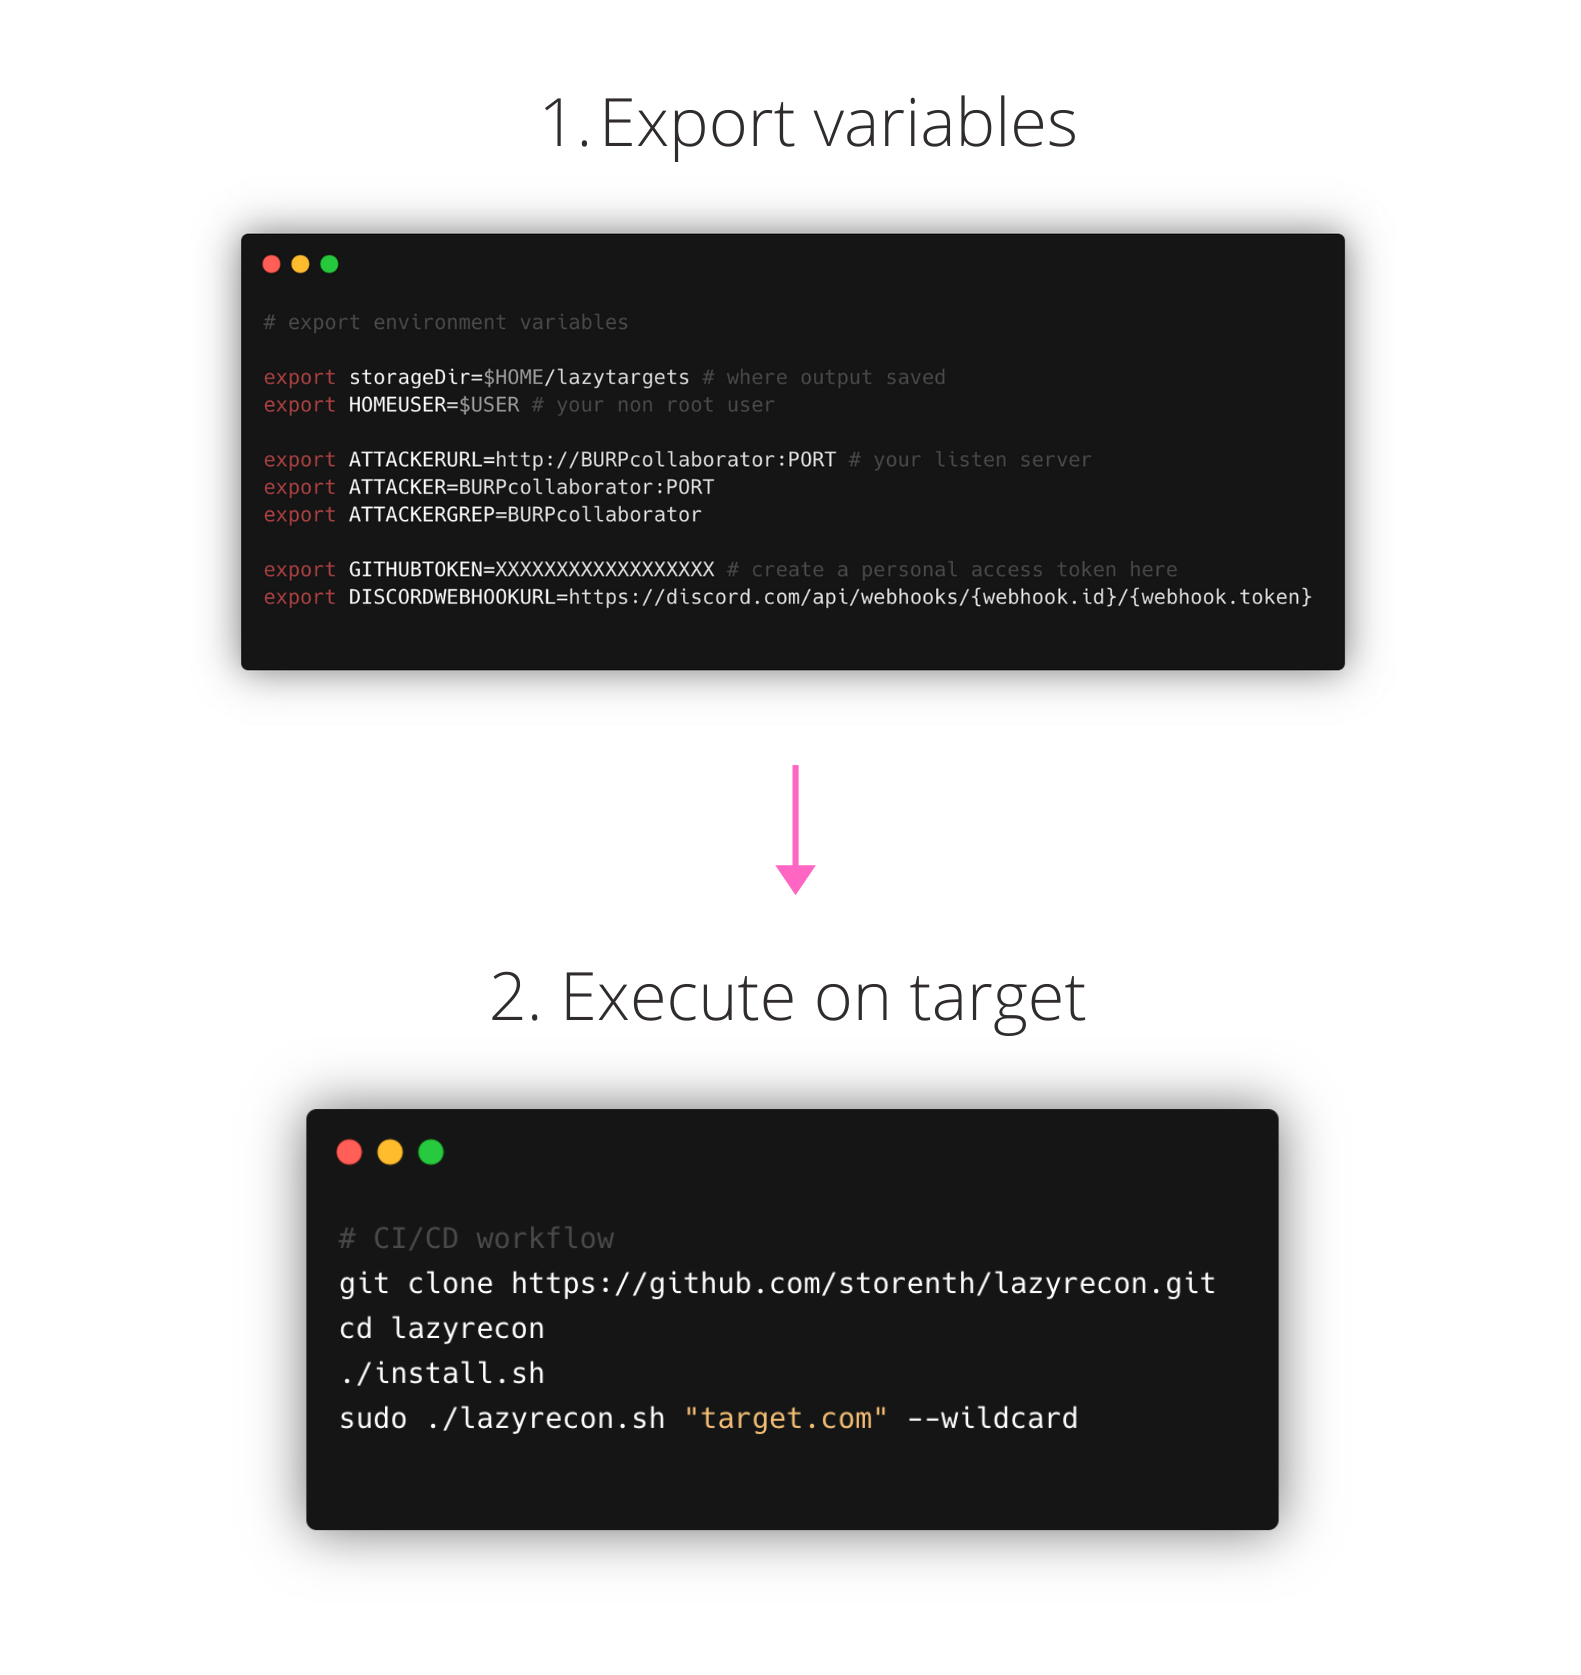
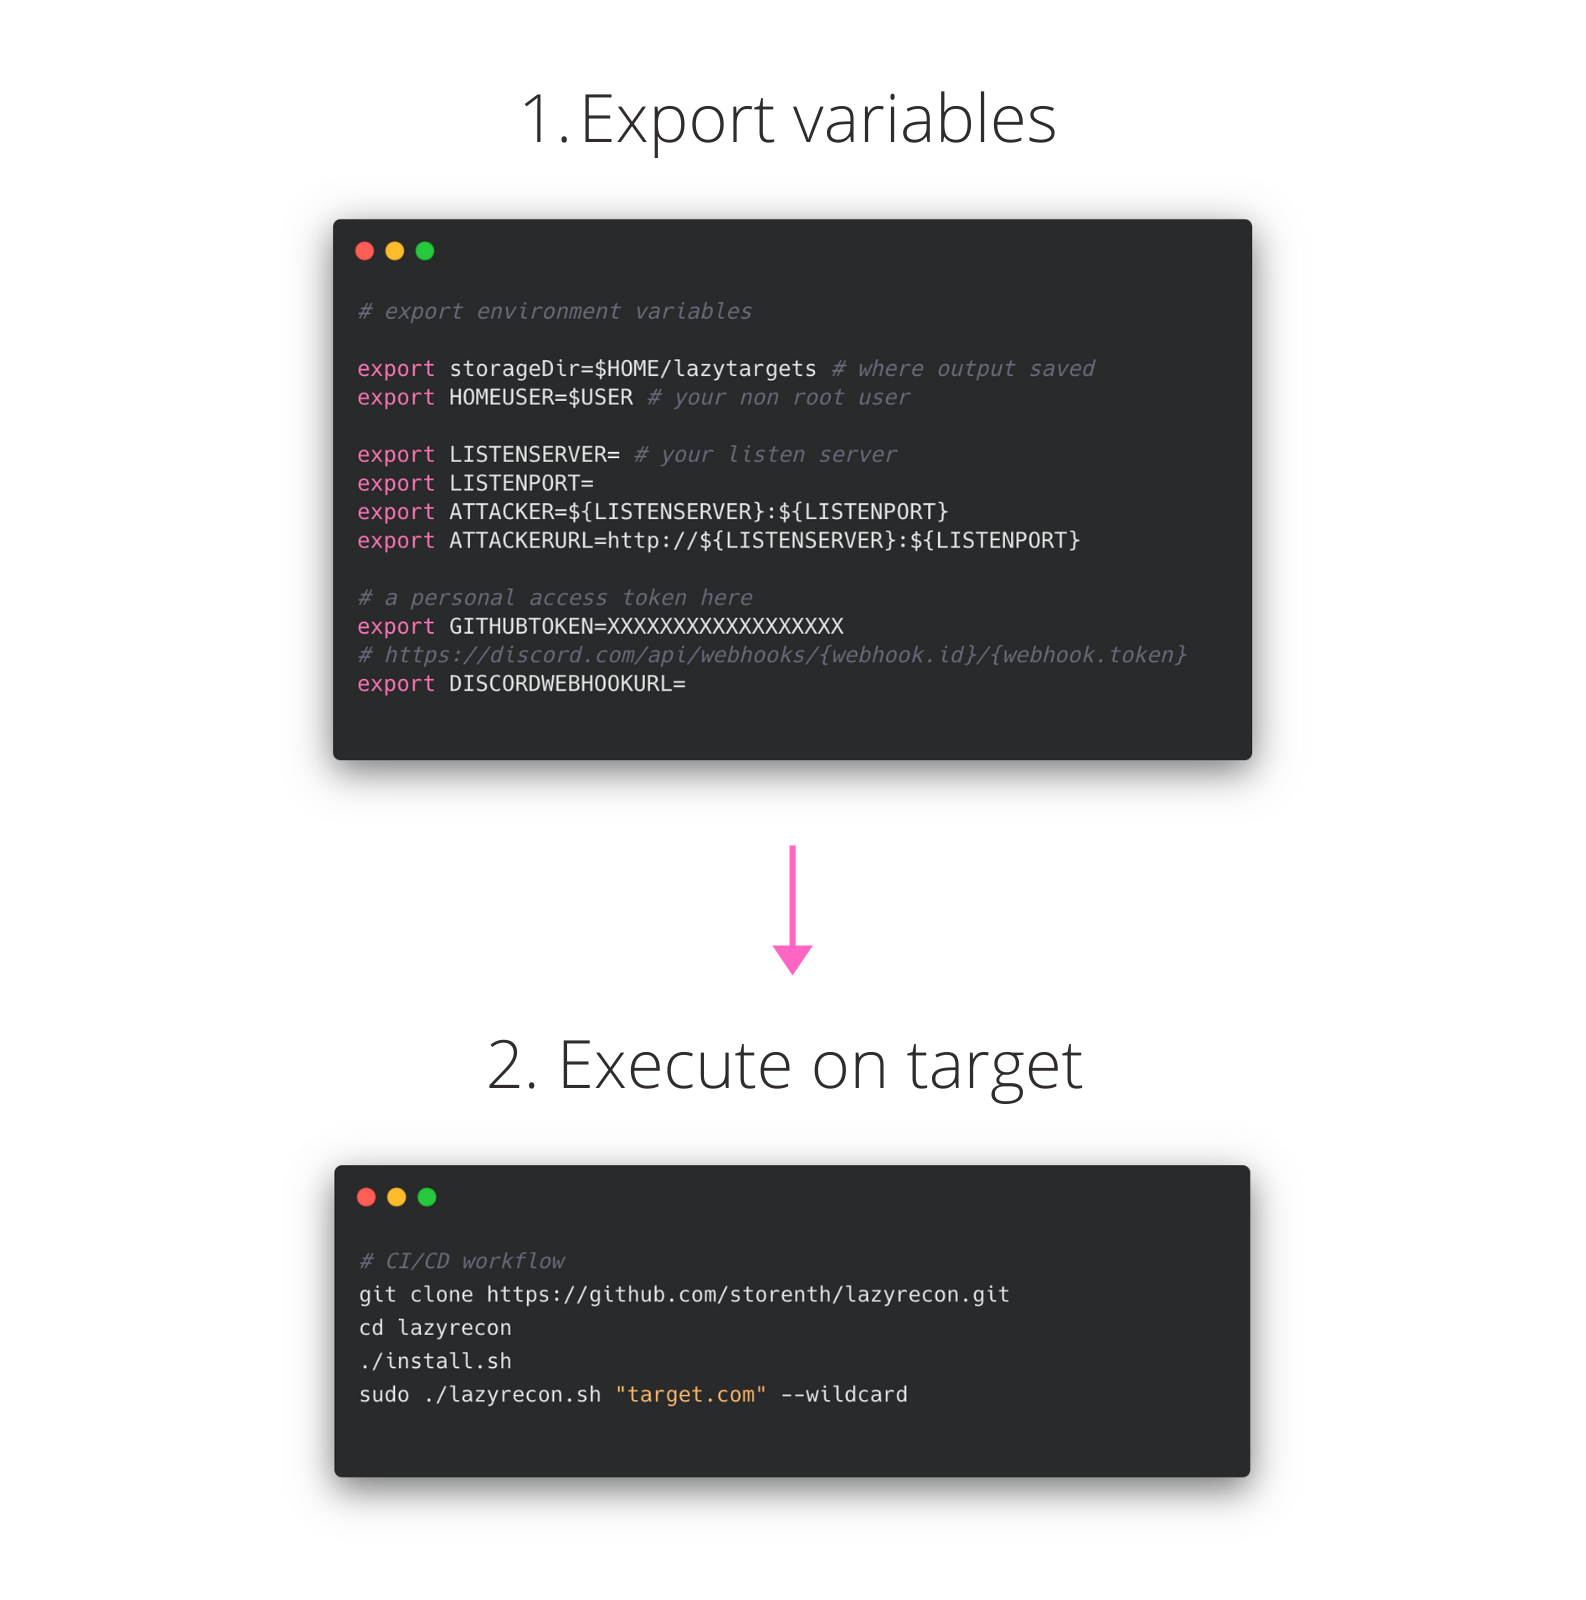
Release 2.9: CI/CD features, install.sh, config, listen server

Changed region(s): [[0.124, 0.125, 0.8678, 0.9375], [0.3409, 0.0625, 0.6818, 0.0938], [0.6199, 0.8438, 0.6818, 0.875]]

diff --git a/README.MD b/README.MD
@@ -14,7 +14,14 @@
 
 Lazyrecon is a subdomain discovery tool that discovers and resolves valid subdomains then performs SSRF/LFI/SQLi fuzzing and port scanning. It has a simple modular architecture and is optimized for speed while working with github and wayback machine.
 
-# CI/CD flow
+# Features
+- Super fast asynchronous execution
+- CI/CD ready
+- Background listen server 
+- Domain name, list of domains, IP, CIDR input notations support
+- Teardown and program exit housekeeping
+- Discord integration
+## Workflow
 <h3 align="center">
   <img src="readme_img/ci-cd-flow.png" alt="lazyrecon-flow" width="700px"></a>
 </h3>
@@ -32,7 +39,7 @@ This script is intended to automate your reconnaissance process in an organized 
 - Perform `masscan` on live servers
 - Automatically brute-forces services with default credentials using `hydra`
 - Scanning for known paths and CVEs using `nuclei`
-- Shot for [SSRF](https://www.hackerone.com/blog-How-To-Server-Side-Request-Forgery-SSRF)/[LFI](https://www.allysonomalley.com/2021/02/11/burpparamflagger-identifying-possible-ssrf-lfi-insertion-points/)/SQLi based on wayback machine's data like [ParamSpider](https://github.com/devanshbatham/ParamSpider) but no reduces the sizes of archive
+- Shot for [SSRF](https://www.hackerone.com/blog-How-To-Server-Side-Request-Forgery-SSRF)/[LFI](https://www.allysonomalley.com/2021/02/11/burpparamflagger-identifying-possible-ssrf-lfi-insertion-points/)/SQLi based on wayback machine's data
 - Check for potential request smuggling vulnerabilities using `smuggler`
 - Perform `ffuf` using custom WordList based on the [top10000.txt](https://github.com/danielmiessler/RobotsDisallowed/blob/master/top10000.txt)
 - Send pass/fail reports to Discord
@@ -40,53 +47,33 @@ This script is intended to automate your reconnaissance process in an organized 
 
 The point is to get a list of live IPs, attack available network protocols, check for common CVEs, perform very simple directory bruteforce then use provided reports for manual research.
 
-# Features
-1. Super fast asynchronous execution
-2. CI/CD ready
-3. Teardown and program exit housekeeping
-4. Domain name, list of domains, IP, CIDR target notation
-5. Discord integration
 # Installing
 Tested on `MacOS` and `Linux`
-- Config your environment variables: `HOMEUSER` and `ATTACKERURL`, see full list at ./lazyconfig
-- Launch your listen server for connect-back TCP connections
-- Use option `nuclei -ut -ud '$PWD/'` to use it properly, but for LFI update templates with [storenth-lfi](https://github.com/storenth/nuclei-templates/blob/master/vulnerabilities/other/storenth-lfi.yaml) till the time [projectdiscovery](https://github.com/projectdiscovery) introduce feature for dynamic replacement of parameters.
-- Update your local `~/.gf` with `./gfpatterns/`
-- Make sure all tools correctly installed and enabled with execute permissions: `chmod +x`
-1. [subfinder](https://github.com/projectdiscovery/subfinder)
-2. [assetfinder](https://github.com/tomnomnom/assetfinder)
-3. [github-subdomains](https://github.com/gwen001/github-subdomains)
-4. [github-endpoints](https://github.com/gwen001/github-endpoints)
-5. [aquatone](https://github.com/michenriksen/aquatone)
-6. [waybackurls](https://github.com/tomnomnom/waybackurls)
-7. [gau](https://github.com/lc/gau)
-8. [altdns](https://github.com/infosec-au/altdns)
-9. [dnsgen](https://github.com/ProjectAnte/dnsgen/)
-10. [shuffledns](https://github.com/projectdiscovery/shuffledns)
-11. [masscan](https://github.com/robertdavidgraham/masscan)
-12. [dnsx](https://github.com/projectdiscovery/dnsx)
-13. [SecLists](https://github.com/danielmiessler/SecLists)
-14. [httpx](https://github.com/projectdiscovery/httpx)
-15. [nuclei](https://github.com/projectdiscovery/nuclei)
-16. [nuclei-templates](https://github.com/projectdiscovery/nuclei-templates)
-17. [smuggler](https://github.com/storenth/requestsmuggler)
-18. [ffuf](https://github.com/ffuf/ffuf)
-19. [hydra](https://github.com/vanhauser-thc/thc-hydra)
-20. [gf](https://github.com/tomnomnom/gf)
-21. [unfurl](https://github.com/tomnomnom/unfurl)
-22. [sqlmap](https://github.com/sqlmapproject/sqlmap)
-23. [gospider](https://github.com/jaeles-project/gospider)
-24. [hakrawler](https://github.com/hakluke/hakrawler)
-25. [ssrf-headers-tool](https://github.com/storenth/Bug-Bounty-Toolz/blob/master/ssrf.py)
-26. [storenth-lfi](https://github.com/storenth/nuclei-templates/blob/master/vulnerabilities/other/storenth-lfi.yaml)
-> (You may copy each executable dependency to `/usr/local/bin/`, create symlinc like: `ln -s $HOME/smuggler/smuggler.py /usr/local/bin/smuggler`, or just export it to the PATH `export PATH=~/masscan/masscan:$PATH`)
+### CI/CD way
+Suppose your pipeline always uses a new instance (stateless agent).
+1. Export the required environment variables `. ./lazyconfig`:
+```bash
+export storageDir=$HOME/lazytargets # where output saved
+export HOMEUSER=$USER # your non root user
+export LISTENSERVER= # your listen server that handle incoming TCP connection
+export LISTENPORT=
+export ATTACKER=${LISTENSERVER}:${LISTENPORT}
+export ATTACKERURL=http://${LISTENSERVER}:${LISTENPORT}
+export GITHUBTOKEN=XXXXXXXXXXXXXXXXXX # a personal access token here
+export DISCORDWEBHOOKURL= # https://discord.com/api/webhooks/{webhook.id}/{webhook.token}
+```
+2. Call `./install.sh`
+3. Execute `sudo ./lazyrecon.sh "example.com"`
+### Hard way
+- Config your environment variables and dependencies using (INSTALL.MD)[https://github.com/storenth/lazyrecon/blob/master/INSTALL.MD]
+
 
 If you faced with some issues, feel free to join [Discord](https://discord.gg/fR2QVrWBTq), open PR or file the bug.
 
 # Usage
 Execute with `sudo` because of `masscan`:
 ```bash
-sudo ./lazyrecon.sh tesla.com --wildcard
+▶ sudo ./lazyrecon.sh tesla.com --wildcard
 ```
 
 | **Parameter**  | **Description**                                       | **Example**                                     |
@@ -105,7 +92,6 @@ sudo ./lazyrecon.sh tesla.com --wildcard
 
 # Notes
 
- - Use [dnsperftest](https://github.com/cleanbrowsing/dnsperftest) to know your best resolvers
  - `Sublist3r` replaced with `subfinder` based on Twitter [discussion](https://twitter.com/Jhaddix/status/1293118260808843264)
  - `nmap` replaced with `masscan` based on its features and Twitter [duscussion](https://twitter.com/DanielMiessler/status/1286721113343447040)
  - `smuggler` forked from its [original](https://github.com/gwen001/pentest-tools/blob/master/smuggler.py) aimed to get lightweight solution included this [PR](https://github.com/gwen001/pentest-tools/pull/10)
@@ -120,18 +106,19 @@ sudo ./lazyrecon.sh tesla.com --wildcard
 **Acknowledgement:** This code was created for personal use with hosts you able to hack/explore by any of the known bug bounty program. Use it at your own risk.
 
 # Methodology
+0. Use [dnsperftest](https://github.com/cleanbrowsing/dnsperftest) to know your best resolvers
 1. Run `./lazyrecon.sh`
-2. Explore file upload vulnerabilities
-3. Google dorking
-4. Trello, Atlassian, Github, Bitbucket dorking
-5. Check JS sources for credentials, API endpoints, debug for variables
-6. Check `XHR` API requests, fuzz parameters
-7. Check exploit-db.com for known target-specific CVE
-8. Bruteforce for directories: fuzbo0oM-top10000 --> raft --> target specific
-9. Continue brute with custom Headers (X-Custom-IP-Authorization: 127.0.0.1; X-Original-URL:)
-10. Start new brute with POST method
-11. Try bypass 401/403 errors using [notable](https://github.com/filedescriptor/Unicode-Mapping-on-Domain-names) methods (`%23`, `/%2e/`, `admin.php%2500.md` etc)
-12. `hydra`, 21, 22, 25, etc ports
+2. Check output reports of aquatone, nuclei, nmap, hydra, server_log, ffuf
+3. Explore file upload vulnerabilities
+4. Google dorking
+5. Trello, Atlassian, Github, Bitbucket dorking
+6. Check JS sources for credentials, API endpoints, debug for variables
+7. Check `XHR` API requests, fuzz parameters
+8. Check exploit-db.com for known target-specific CVE
+9. Bruteforce for directories: fuzbo0oM-top10000 --> raft --> target specific
+10. Continue brute with custom Headers (X-Custom-IP-Authorization: 127.0.0.1; X-Original-URL:)
+11. Start new brute with POST/cookies
+12. Try bypass 401/403 errors using [notable](https://github.com/filedescriptor/Unicode-Mapping-on-Domain-names) methods (`%23`, `/%2e/`, `admin.php%2500.md` etc)
 13. XSS [xsscrapy.py](https://github.com/DanMcInerney/xsscrapy) or [XSSTRON](https://github.com/RenwaX23/XSSTRON)
 
 # Origin

diff --git a/INSTALL.md b/INSTALL.md
@@ -1,0 +1,42 @@
+# Installing
+
+## Prerequirements
+```bash
+python >= 3.7.3
+go >= 1.14
+```
+
+## Dependencies
+Tested on `MacOS` and `Linux`
+- To start use this script, please clone and/or setup the dependencies.
+- Update your local `~/.gf` with `./gfpatterns/`
+- Use option `nuclei -ut -ud '$PWD/'` to use it properly, but for LFI update templates with [storenth-lfi](https://github.com/storenth/nuclei-templates/blob/master/vulnerabilities/other/storenth-lfi.yaml) till the time [projectdiscovery](https://github.com/projectdiscovery) introduce feature for dynamic replacement of parameters.
+- Make sure all tools correctly installed and enabled with execute permissions: `chmod +x`
+1. [subfinder](https://github.com/projectdiscovery/subfinder)
+2. [simplehttpserver](https://github.com/projectdiscovery/simplehttpserver)
+3. [assetfinder](https://github.com/tomnomnom/assetfinder)
+4. [github-subdomains](https://github.com/storenth/github-search/blob/master/github-subdomains.py)
+5. [github-endpoints](https://github.com/storenth/github-search/blob/master/github-endpoints.py)
+6. [aquatone](https://github.com/michenriksen/aquatone)
+7. [waybackurls](https://github.com/tomnomnom/waybackurls)
+8. [gau](https://github.com/lc/gau)
+9. [altdns](https://github.com/infosec-au/altdns)
+10. [dnsgen](https://github.com/ProjectAnte/dnsgen/)
+11. [shuffledns](https://github.com/projectdiscovery/shuffledns)
+12. [masscan](https://github.com/robertdavidgraham/masscan)
+13. [dnsx](https://github.com/projectdiscovery/dnsx)
+14. [httpx](https://github.com/projectdiscovery/httpx)
+15. [nuclei](https://github.com/projectdiscovery/nuclei)
+16. [nuclei-templates](https://github.com/storenth/nuclei-templates)
+17. [smuggler](https://github.com/storenth/requestsmuggler)
+18. [ffuf](https://github.com/ffuf/ffuf)
+19. [hydra](https://github.com/vanhauser-thc/thc-hydra)
+20. [gf](https://github.com/tomnomnom/gf)
+21. [qsreplace](https://github.com/tomnomnom/qsreplace)
+22. [unfurl](https://github.com/tomnomnom/unfurl)
+23. [sqlmap](https://github.com/sqlmapproject/sqlmap)
+24. [gospider](https://github.com/jaeles-project/gospider)
+25. [hakrawler](https://github.com/hakluke/hakrawler)
+26. [ssrf-headers-tool](https://github.com/storenth/Bug-Bounty-Toolz/blob/master/ssrf.py)
+27. [storenth-lfi](https://github.com/storenth/nuclei-templates/blob/master/vulnerabilities/other/storenth-lfi.yaml)
+> (You may copy each executable dependency to `/usr/local/bin/`, create symlinc like: `ln -s $HOME/smuggler/smuggler.py /usr/local/bin/smuggler`, or just export it to the PATH `export PATH=~/masscan/masscan:$PATH`)
